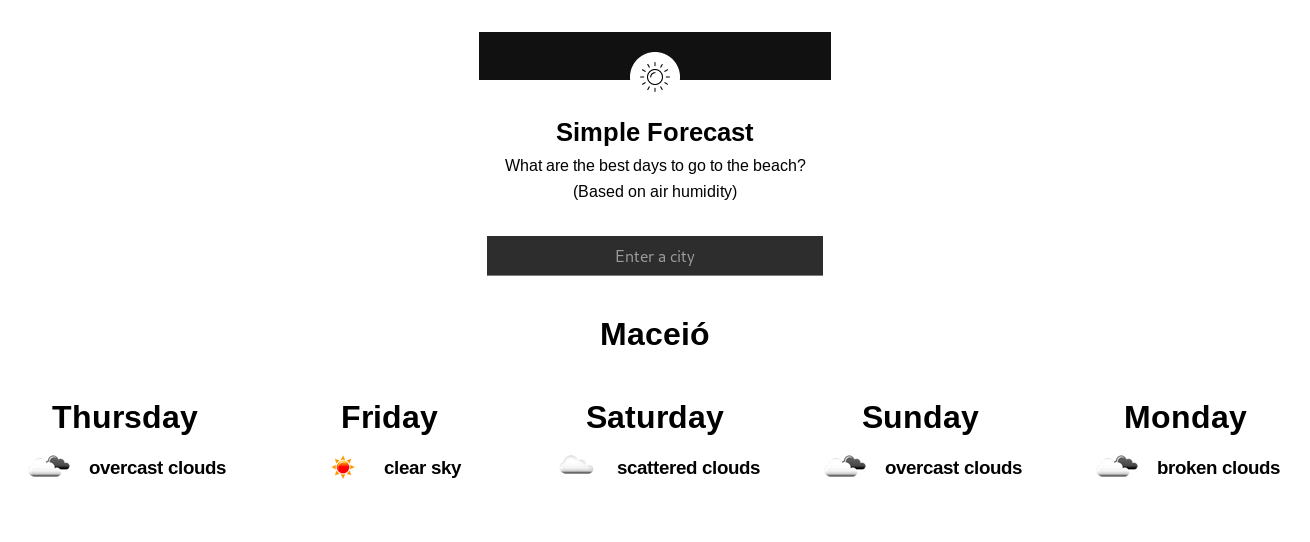
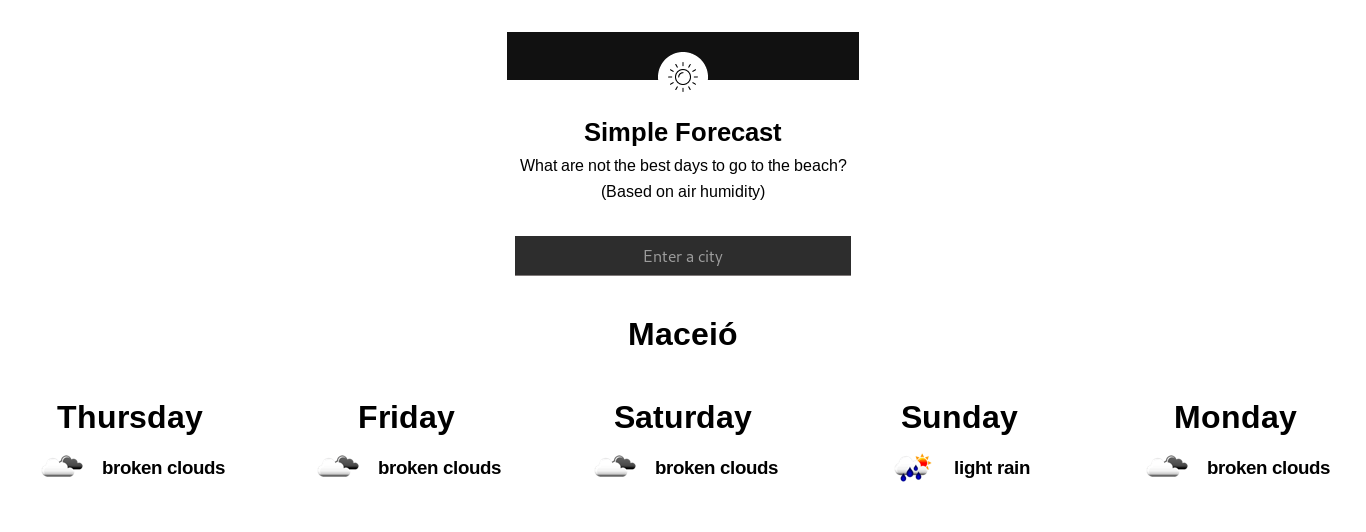
docs: update documentation

diff --git a/README.md b/README.md
@@ -1,5 +1,5 @@
 # Weather Mini Challenge
-> Shows the best days to go to the beach based on the humidity
+> Shows days not to go to the beach, based on humidity
 
 ![](header.png)
 
